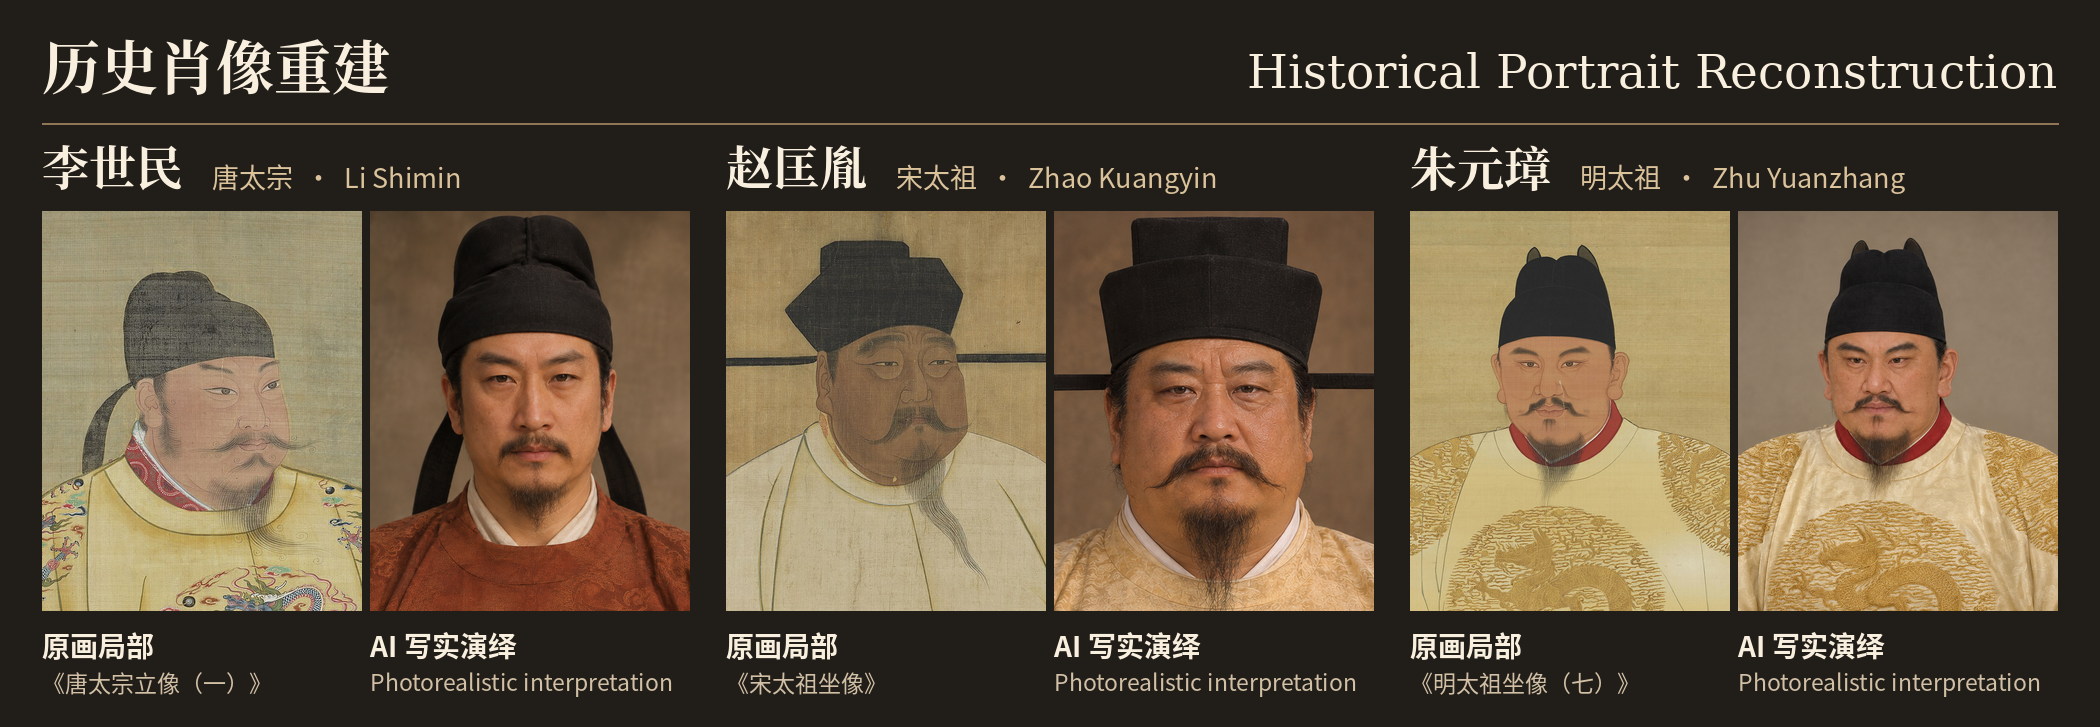
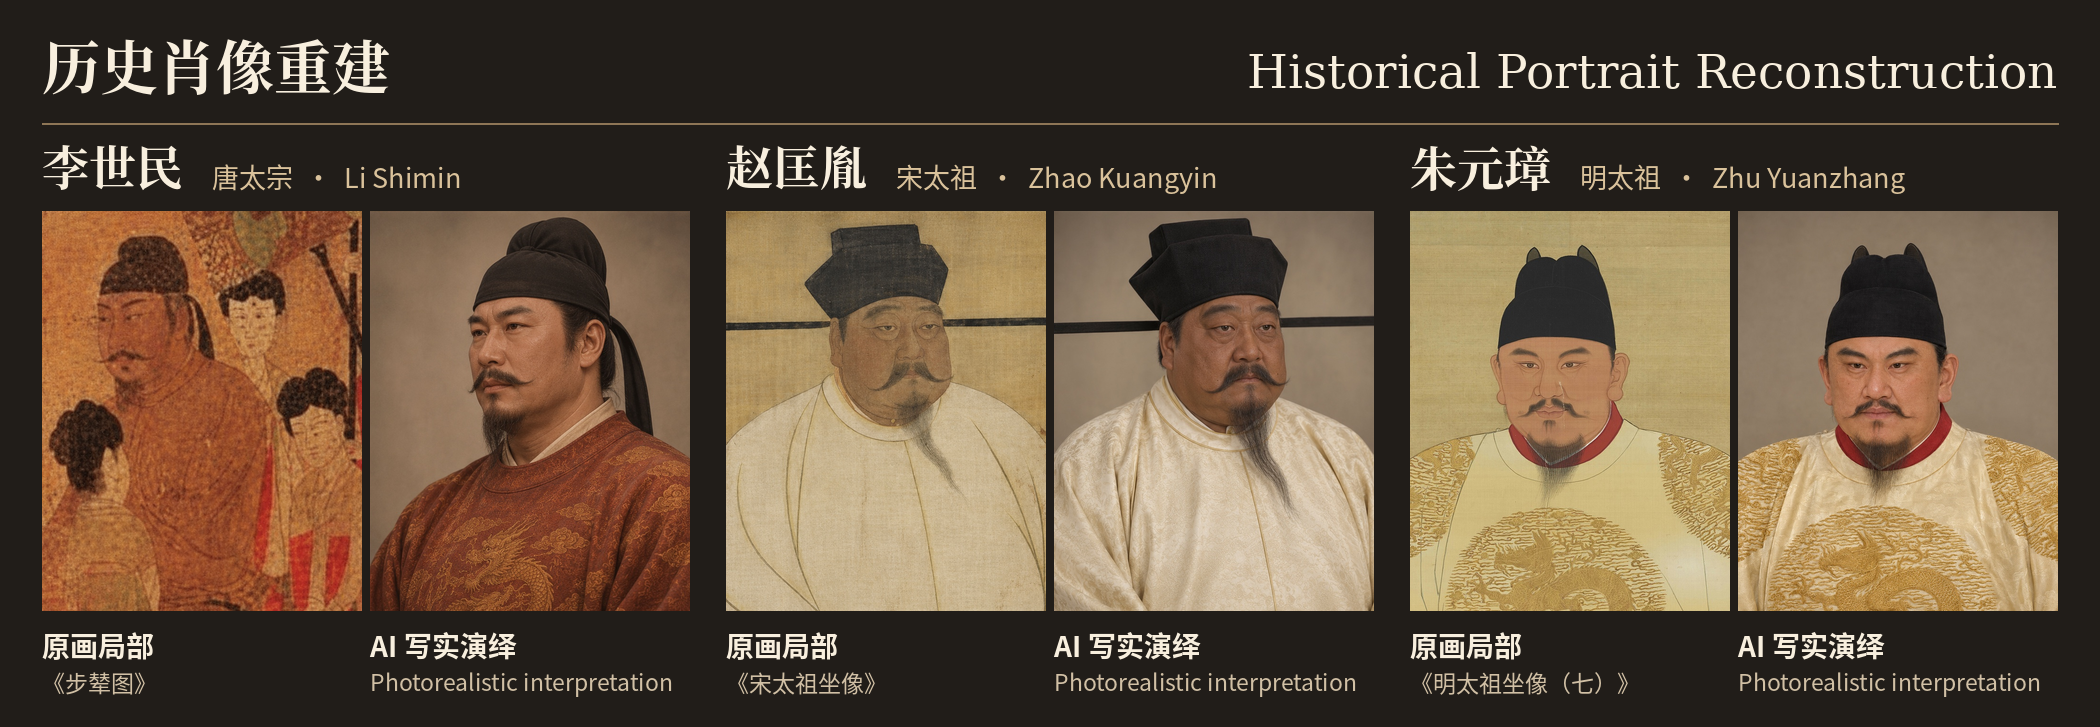
Use the selected historical portrait comparisons

diff --git a/THIRD_PARTY_NOTICES.md b/THIRD_PARTY_NOTICES.md
@@ -17,15 +17,15 @@ Any future bundled image must have a per-file provenance and rights record, incl
 
 ## README banner
 
-The left panel of each pair shows a detail of a painting in the National Palace Museum, Taipei. The right panels reuse previously generated interpretations.
+The banner uses the three selected comparison images. The left panels show details of the artworks listed below. The right panels show the corresponding AI interpretations.
 
-| Subject | Painting | Accession | Full image |
-| --- | --- | --- | --- |
-| Li Shimin | [唐太宗立像（一）](https://digitalarchive.npm.gov.tw/Collection/Detail/1825?dep=P) | 中畫000263N000000000 | [Wikimedia Commons](https://commons.wikimedia.org/wiki/File:TangTaizong.jpg) |
-| Zhao Kuangyin | [宋太祖坐像](https://digitalarchive.npm.gov.tw/Collection/Detail/1864?dep=P) | 中畫000302N000000000 | [Wikimedia Commons](https://commons.wikimedia.org/wiki/File:Song_Taizu.jpg) |
-| Zhu Yuanzhang | [明太祖坐像（七）](https://digitalarchive.npm.gov.tw/Collection/Detail/1873?dep=P) | 中畫000311N000000000 | [Wikimedia Commons](https://commons.wikimedia.org/wiki/File:Portrait_assis_de_l%27empereur_Ming_Taizu.jpg) |
+| Subject | Painting | Collection | Accession | Full image |
+| --- | --- | --- | --- | --- |
+| Li Shimin | [步辇图](https://www.dpm.org.cn/collection/paint/234620.html) | The Palace Museum, Beijing | 新00119106 | [Wikimedia Commons](https://commons.wikimedia.org/wiki/File:%E9%98%8E%E7%AB%8B%E6%9C%AC%E6%AD%A5%E8%BE%87%E5%9B%BE%E5%8D%B7.png) |
+| Zhao Kuangyin | [宋太祖坐像](https://digitalarchive.npm.gov.tw/Collection/Detail/1864?dep=P) | National Palace Museum, Taipei | 中畫000302N000000000 | [Wikimedia Commons](https://commons.wikimedia.org/wiki/File:Song_Taizu.jpg) |
+| Zhu Yuanzhang | [明太祖坐像（七）](https://digitalarchive.npm.gov.tw/Collection/Detail/1873?dep=P) | National Palace Museum, Taipei | 中畫000311N000000000 | [Wikimedia Commons](https://commons.wikimedia.org/wiki/File:Portrait_assis_de_l%27empereur_Ming_Taizu.jpg) |
 
-Wikimedia Commons marks the source scans as faithful public-domain reproductions. The banner crops and proportionally resizes the scans, including the source panel from the earlier Zhu Yuanzhang comparison. The artwork, scan rights, crop coordinates, and image hashes are documented in [banner-sources.json](assets/banner-sources.json). The banner is a project illustration. The MIT license applies to the repository material described above.
+Wikimedia Commons marks the linked full images as public-domain reproductions. The banner panels are crops of the supplied comparisons, resized proportionally. The exact input hashes and crop coordinates are documented in [banner-sources.json](assets/banner-sources.json). The banner is a project illustration. The MIT license applies to the repository material described above.
 
 ## Pillow
 
